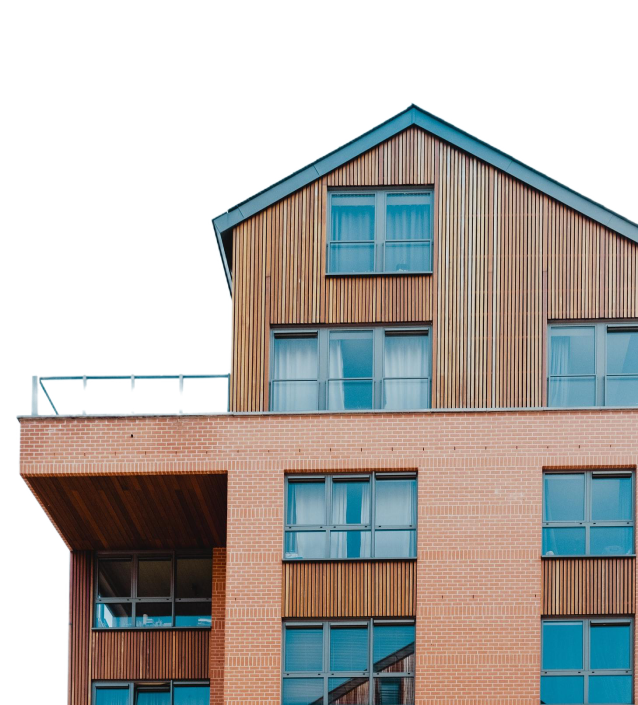
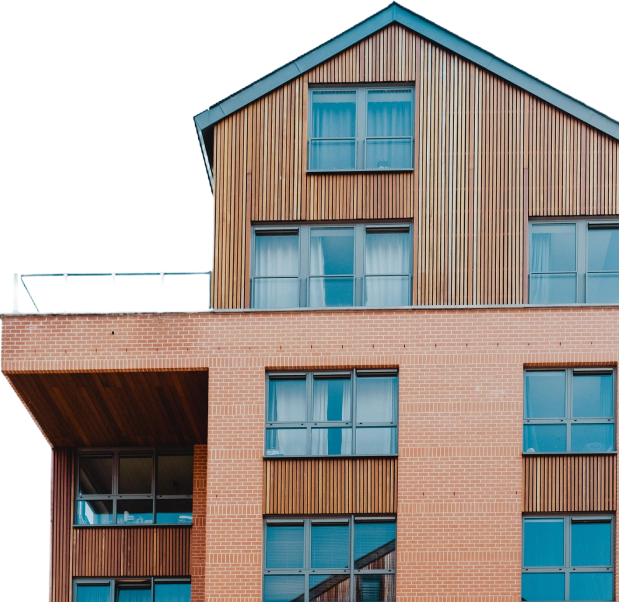
Fixed Landing Page Layout.

diff --git a/public/css/TenantStyle.css b/public/css/TenantStyle.css
@@ -146,7 +146,7 @@ body {
     object-fit: cover;
     position: relative;
     right: -12px;
-    bottom: 110px;
+    bottom: 40px;
 }
 
 .cta-partner-cards {

diff --git a/resources/views/TenantLayout/header.blade.php b/resources/views/TenantLayout/header.blade.php
@@ -59,11 +59,8 @@
                                 <li class="nav-item">
                                     <a class="nav-link nav-link-state mx-2 {{ request()->routeIs('FAQs') ? 'active text-forest-green' : '' }}" href="{{route('FAQs')}}">FAQs</a>
                                 </li>
-                                <li class="nav-item">
-                                    <a class="nav-link nav-link-state mx-2 {{ request()->routeIs('Contact') ? 'active text-forest-green' : '' }}" href="{{route('Contact')}}">Contact Us</a>
-                                </li>
                             </ul>
-                            <button class="btn-style">Sign Up</button>
+                            <a class="btn-style text-decoration-none" href="{{route('Contact')}}">Contact Us</a>
                         </div>
                     </div>
                 </nav>

diff --git a/database/migrations/2025_01_08_122945_create_inquiry_table.php b/database/migrations/2025_01_08_122945_create_inquiry_table.php
@@ -1,0 +1,27 @@
+<?php
+
+use Illuminate\Database\Migrations\Migration;
+use Illuminate\Database\Schema\Blueprint;
+use Illuminate\Support\Facades\Schema;
+
+return new class extends Migration
+{
+    /**
+     * Run the migrations.
+     */
+    public function up(): void
+    {
+        Schema::create('inquiry', function (Blueprint $table) {
+            $table->id();
+            $table->timestamps();
+        });
+    }
+
+    /**
+     * Reverse the migrations.
+     */
+    public function down(): void
+    {
+        Schema::dropIfExists('inquiry');
+    }
+};
